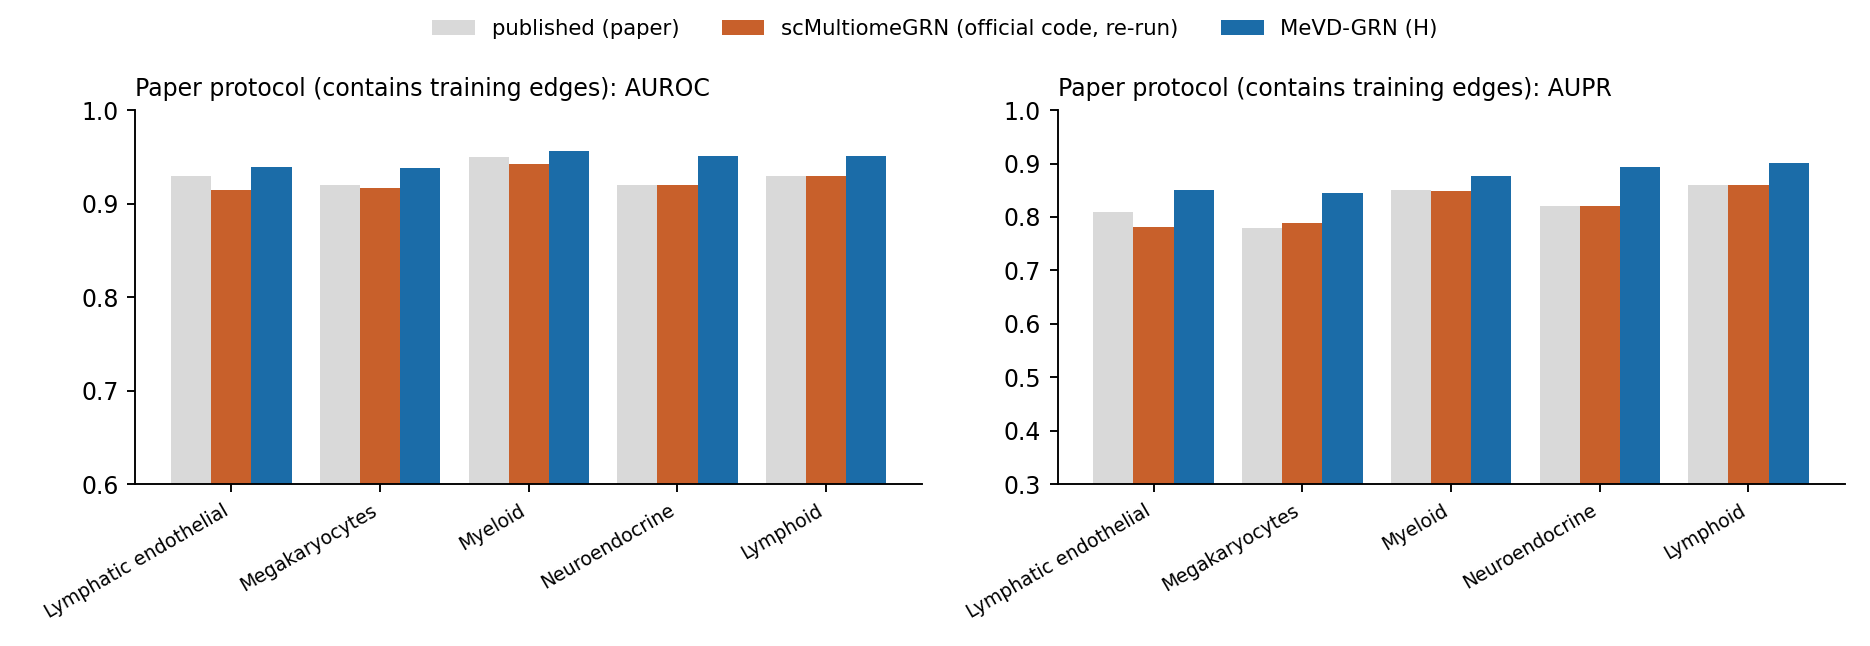
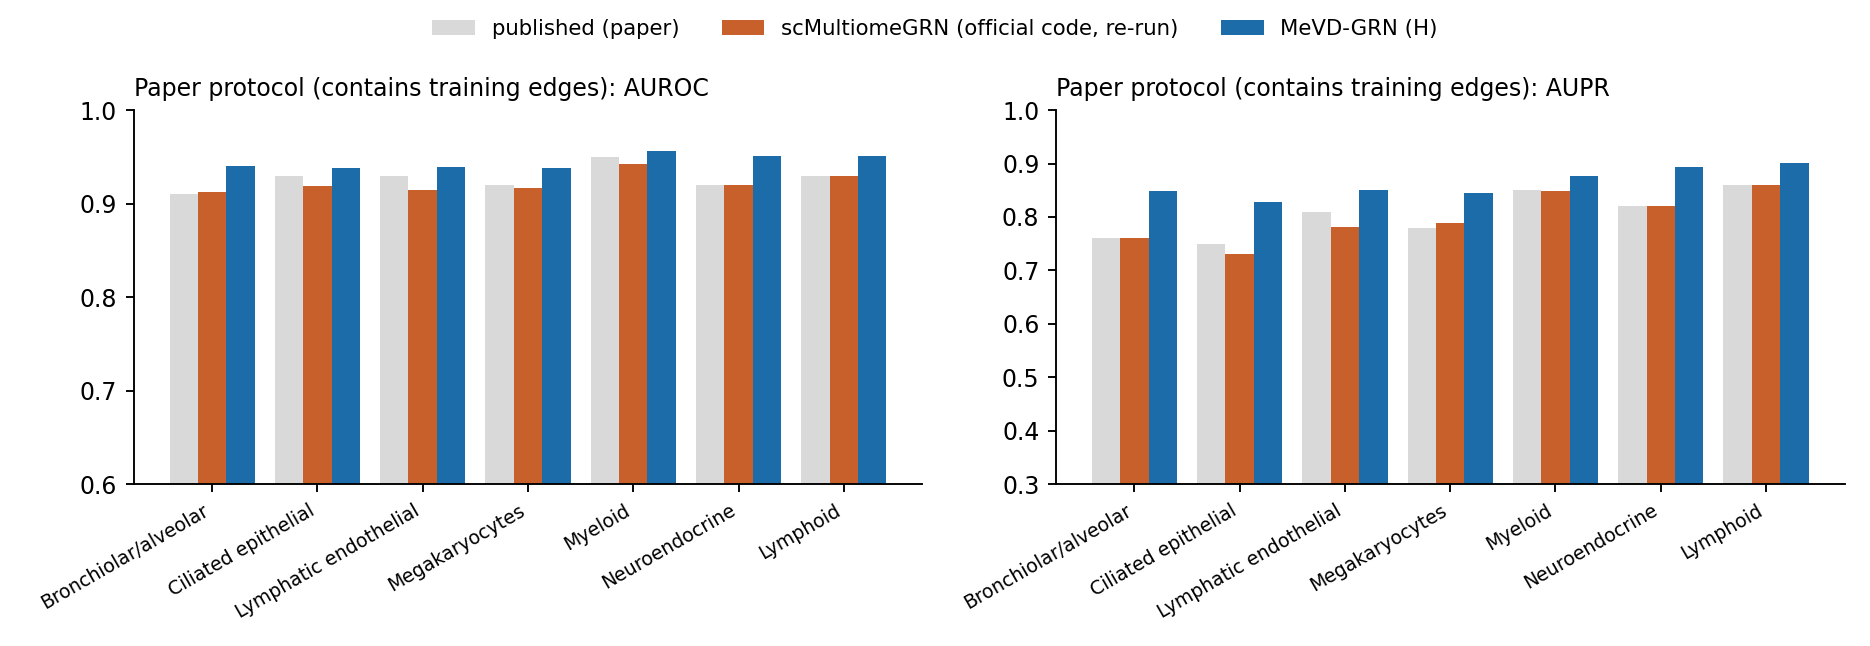
deck: results for 7 lung + 2 hematopoiesis cell types, updated figures and progress

diff --git a/docs/presentation/presentation_11th_oct_17th_oct.md b/docs/presentation/presentation_11th_oct_17th_oct.md
@@ -9,20 +9,21 @@ Branch `scmgrn-tftf`. Experiment write-up with every deviation: `docs/experiment
 
 ---
 
-## 1. Summary (as of the last update below)
+## 1. Summary (updated 16 Oct, 17:10; 7 of 9 lung cell types and 2 of 3 hematopoiesis cell types have both methods finished)
 
 1. **We rebuilt scMultiomeGRN's benchmark and reproduced its published numbers.** The regenerated TF-TF answer keys are within
    5% of the paper's link counts on all 9 lung cell types, our fold files are byte-identical to what their split code writes,
-   and their own code, re-run on our data, scores what the paper reports (for example Neuroendocrine 0.920 / 0.820, Myeloid 0.943 / 0.849, HSC 0.927 / 0.69 on the paper's metric).
+   and their own code, re-run on our data, scores what the paper reports (for example Bronchiolar 0.913 / 0.760, Neuroendocrine 0.920 / 0.820,
+   Myeloid 0.943 / 0.849, HSC 0.927 / 0.696, on the paper's metric).
 2. **We changed MeVD-GRN to predict undirected TF-TF links**, the task scMultiomeGRN solves (it used to predict directed TF-to-gene edges),
    and gave it scMultiomeGRN's own inputs.
-3. **On the held-out test fold, MeVD-GRN is slightly better than scMultiomeGRN on 4 of the 5 lung cell types finished so far**
-   (pooled mean +0.011 AUPR, +0.009 AUROC). The gain is small compared with the fold-to-fold spread, and individually significant for
-   two cell types. See section 7.
+3. **On the held-out test fold, MeVD-GRN beats scMultiomeGRN on 6 of the 7 lung cell types finished, and on both hematopoiesis cell types finished.**
+   Lung, pooled: **+0.014 AUPR, +0.010 AUROC**; individually significant on 5 of 7 cell types. Hematopoiesis: +0.020 AUPR on HSC (p = 0.002), +0.008 on GMP (p = 0.049).
+   The gains are small (1 to 2 points) next to the fold-to-fold spread (2 to 5 points). Myeloid is the one lung cell type where scMultiomeGRN is ahead (not significant).
 4. **The ablations say the gain does not come from the scMultiomeGRN-specific inputs or from the training graph.** A variant that never sees
    the training links scores the same as the full model. This fits the main caveat of the benchmark: the answer key is generated from the
-   same ATAC data the models read (section 9).
-5. **Status:** 5 of 9 lung cell types finished; the other 4 and hematopoiesis (HSC, CMP, GMP) are running. See section 11 for the current table.
+   same ATAC data the models read (section 10).
+5. **Status:** see section 12. Remaining: Vascular endothelial and Stromal (lung), CMP (hematopoiesis).
 
 ---
 
@@ -126,18 +127,24 @@ the links the model trained on). We report both and label the second.
 | Megakaryocytes | 0.92 / 0.78 | 0.917 / 0.788 |
 | Neuroendocrine | 0.92 / 0.82 | 0.920 / 0.820 |
 | Lymphatic endothelial | 0.93 / 0.81 | 0.915 / 0.781 |
-| HSC (hematopoiesis, folds 1 and 2) | 0.92 / 0.67 | 0.927 / 0.686 |
+| Bronchiolar and alveolar | 0.91 / 0.76 | 0.913 / 0.760 |
+| Ciliated epithelial | 0.93 / 0.75 | 0.918 / 0.730 |
+| Vascular endothelial (4 of 10 folds so far) | 0.90 / 0.67 | 0.892 / 0.65 |
+| HSC (hematopoiesis) | 0.92 / 0.67 | 0.927 / 0.696 |
+| GMP (hematopoiesis) | 0.93 / 0.71 | 0.928 / 0.681 |
 
-The benchmark therefore reproduces the paper; comparisons made on it are meaningful.
+The re-runs match the paper to within about 0.01 AUROC and 0.03 AUPR (closest on Bronchiolar, Myeloid, Lymphoid, Neuroendocrine, HSC). The benchmark therefore reproduces the paper; comparisons made on it are meaningful.
 
 ---
 
-## 7. Headline result: held-out test fold (5 of 9 lung cell types so far)
+## 7. Headline result: held-out test fold, lung (7 of 9 cell types finished)
 
 AUROC / AUPR, mean over 10 folds then over seeds.
 
 | Cell type | **MeVD-GRN H** | A1 | A2 | A3 | scMultiomeGRN (official code) |
 |---|---|---|---|---|---|
+| Bronchiolar and alveolar | **0.914 / 0.930** | 0.913 / 0.930 | 0.913 / 0.929 | 0.915 / 0.931 | 0.901 / 0.911 |
+| Ciliated epithelial | **0.928 / 0.940** | 0.928 / 0.940 | 0.927 / 0.939 | 0.928 / 0.940 | 0.912 / 0.915 |
 | Lymphatic endothelial | **0.922 / 0.937** | 0.921 / 0.935 | 0.920 / 0.934 | 0.919 / 0.933 | 0.908 / 0.917 |
 | Megakaryocytes | **0.905 / 0.923** | 0.907 / 0.925 | 0.902 / 0.923 | 0.901 / 0.920 | 0.898 / 0.915 |
 | Myeloid | 0.927 / 0.933 | 0.928 / 0.936 | 0.928 / 0.937 | 0.930 / 0.939 | **0.930 / 0.943** |
@@ -150,21 +157,27 @@ Fold-paired comparison, H minus official code (10 folds per cell type, Wilcoxon 
 
 | Cell type | AUPR difference | p | AUROC difference | p |
 |---|---|---|---|---|
-| Lymphatic endothelial | +0.020 | 0.002 | +0.014 | 0.010 |
+| Ciliated epithelial | +0.025 | 0.002 | +0.016 | 0.004 |
 | Neuroendocrine | +0.021 | 0.002 | +0.015 | 0.004 |
+| Lymphatic endothelial | +0.020 | 0.002 | +0.014 | 0.010 |
+| Bronchiolar and alveolar | +0.019 | 0.004 | +0.013 | 0.014 |
 | Lymphoid | +0.017 | 0.105 | +0.009 | 0.375 |
 | Megakaryocytes | +0.009 | 0.160 | +0.007 | 0.275 |
 | Myeloid | -0.011 | 0.375 | -0.003 | 0.695 |
-| **Pooled (50 fold pairs)** | **+0.011** | **0.0001** | **+0.009** | **0.0005** |
+| **Pooled (70 fold pairs)** | **+0.014** | **1e-7** | **+0.010** | **2e-6** |
 
-How to read this: the gains are small (about one point of AUPR), the fold-to-fold standard deviation is 2 to 5 points, only 2 of 5 cell types are
-individually significant, and the pooled p-value treats folds within a cell type as independent although they share a graph, so it is optimistic.
+In 80% of the 70 cell-type-by-fold pairs MeVD-GRN is ahead on AUPR (73% on AUROC).
+How to read this: the gains are small (one to two points of AUPR), the fold-to-fold standard deviation is 2 to 5 points, 5 of 7 cell types are
+individually significant (with only 10 folds each, p = 0.002 is the smallest value a paired test can give), and the pooled p-value treats folds
+within a cell type as independent although they share a graph, so it is optimistic.
+
+---
 
 ---
 
 ## 8. Ablations: what produces the score?
 
-On the held-out fold, the four MeVD-GRN variants are within about 0.005 of each other on every cell type finished.
+On the held-out fold, the four MeVD-GRN variants are within about 0.005 of each other on every cell type finished (7 lung, 2 hematopoiesis).
 
 - **A2** never sees the training links (only label-free graphs and features) and scores the same as H. The headline gain therefore does not come from
   message passing over known links.
@@ -184,6 +197,8 @@ AUROC / AUPR. **This set includes the links the model was trained on, so it is n
 
 | Cell type | MeVD-GRN H | A3 | scMultiomeGRN (official code) | Paper (published) |
 |---|---|---|---|---|
+| Bronchiolar and alveolar | 0.940 / 0.849 | 0.938 / 0.855 | 0.913 / 0.760 | 0.91 / 0.76 |
+| Ciliated epithelial | 0.938 / 0.828 | 0.939 / 0.833 | 0.918 / 0.730 | 0.93 / 0.75 |
 | Lymphatic endothelial | 0.939 / 0.850 | 0.942 / 0.862 | 0.915 / 0.781 | 0.93 / 0.81 |
 | Megakaryocytes | 0.938 / 0.846 | 0.937 / 0.855 | 0.917 / 0.788 | 0.92 / 0.78 |
 | Myeloid | 0.956 / 0.877 | 0.958 / 0.892 | 0.943 / 0.849 | 0.95 / 0.85 |
@@ -192,8 +207,29 @@ AUROC / AUPR. **This set includes the links the model was trained on, so it is n
 
 ![paper protocol](figs_scmgrn/fig_paper.png)
 
-The pooled difference on this set is +0.054 AUPR (50 pairs). It is larger than on the held-out fold because a higher-capacity model fits the training links better;
+The pooled difference on this set is +0.065 AUPR (70 pairs). It is larger than on the held-out fold because a higher-capacity model fits the training links better;
 it should not be read as better generalisation.
+
+---
+
+## 9b. Hematopoiesis (Buenrostro 2018): HSC and GMP finished, CMP running
+
+Held-out test fold, AUROC / AUPR:
+
+| Cell type | **MeVD-GRN H** | A1 | A2 | A3 | scMultiomeGRN (official code) |
+|---|---|---|---|---|---|
+| HSC | **0.934 / 0.940** | 0.934 / 0.941 | 0.931 / 0.937 | 0.932 / 0.940 | 0.922 / 0.921 |
+| GMP | **0.925 / 0.934** | 0.925 / 0.935 | 0.922 / 0.934 | 0.924 / 0.935 | 0.921 / 0.926 |
+| CMP | running | | | | |
+
+Fold-paired, H minus official: HSC +0.020 AUPR (p = 0.002), +0.012 AUROC (p = 0.002); GMP +0.008 AUPR (p = 0.049), +0.004 AUROC (p = 0.23). Pooled (20 pairs): +0.014 AUPR (p = 5e-5).
+
+Paper protocol (full matrix, contains training links), AUROC / AUPR: HSC: MeVD-GRN 0.945 / 0.790, official re-run 0.927 / 0.696 (paper 0.92 / 0.67);
+GMP: MeVD-GRN 0.943 / 0.784, official re-run 0.928 / 0.681 (paper 0.93 / 0.71).
+
+![hematopoiesis test fold](figs_scmgrn_hema/fig_test.png)
+
+The same pattern as lung: a small held-out-fold gain, and the four MeVD-GRN variants indistinguishable from each other.
 
 ---
 
@@ -203,7 +239,7 @@ it should not be read as better generalisation.
   rule, without learning regulation. The same holds for scMultiomeGRN; the ablations suggest it holds for us too. This benchmark cannot tell
   "learns regulation" from "learns the construction rule".
 - **Lung "RNA" is gene-body accessibility**, not expression, so both modalities come from ATAC.
-- **Small graphs:** the five finished cell types have 41 to 94 TFs and 266 to 936 links; each held-out fold has only 27 to 94 positive links.
+- **Small graphs:** the finished lung cell types have 41 to 228 TFs and 266 to 4,254 links; each held-out fold has only 27 to 425 positive links (hematopoiesis: 150 to 171 TFs, 1,500 to 2,000 links).
 - **Official code seeds:** 6 seeds for the first five cell types, 2 (666 and 42) for the rest, because the code is near-deterministic across seeds
   (Myeloid, 6 seeds: all within 0.001) and costs about 5 minutes per fold on the large cell types.
 - **Deviation from the official preprocessing:** the Seurat object stores no variable-gene list, so GRNBoost2 uses genes detected in more than 10% of
@@ -213,15 +249,16 @@ it should not be read as better generalisation.
 
 ---
 
-## 11. [UPDATE] Progress of the runs
+## 12. Progress of the runs (updated 16 Oct, 17:10)
 
-| Dataset / cell type | Status at last update | MeVD-GRN (4 variants × 5 seeds × 10 folds) | Official code |
+| Dataset / cell type | Status | MeVD-GRN (4 variants × 5 seeds × 10 folds) | Official code |
 |---|---|---|---|
 | Lung: Myeloid, Lymphoid, Megakaryocytes, Neuroendocrine, Lymphatic | **finished** | done | 6 seeds done |
-| Lung: Bronchiolar | running | in progress | in progress (2 seeds) |
-| Lung: Ciliated, Vascular | queued | – | – |
+| Lung: Bronchiolar, Ciliated | **finished** | done | 2 seeds done |
+| Lung: Vascular endothelial (10k directed entries, 271 TFs) | running | in progress | in progress (fold 4 of 10) |
 | Lung: Stromal (43k cells) | queued last; may hit the memory limit of the official code | – | – |
-| Hematopoiesis: HSC, CMP, GMP | running | in progress | in progress (2 seeds) |
+| Hematopoiesis: HSC, GMP | **finished** | done | 2 seeds done |
+| Hematopoiesis: CMP | running | done | in progress |
 
 *(Further updates are appended below as results arrive.)*
 
